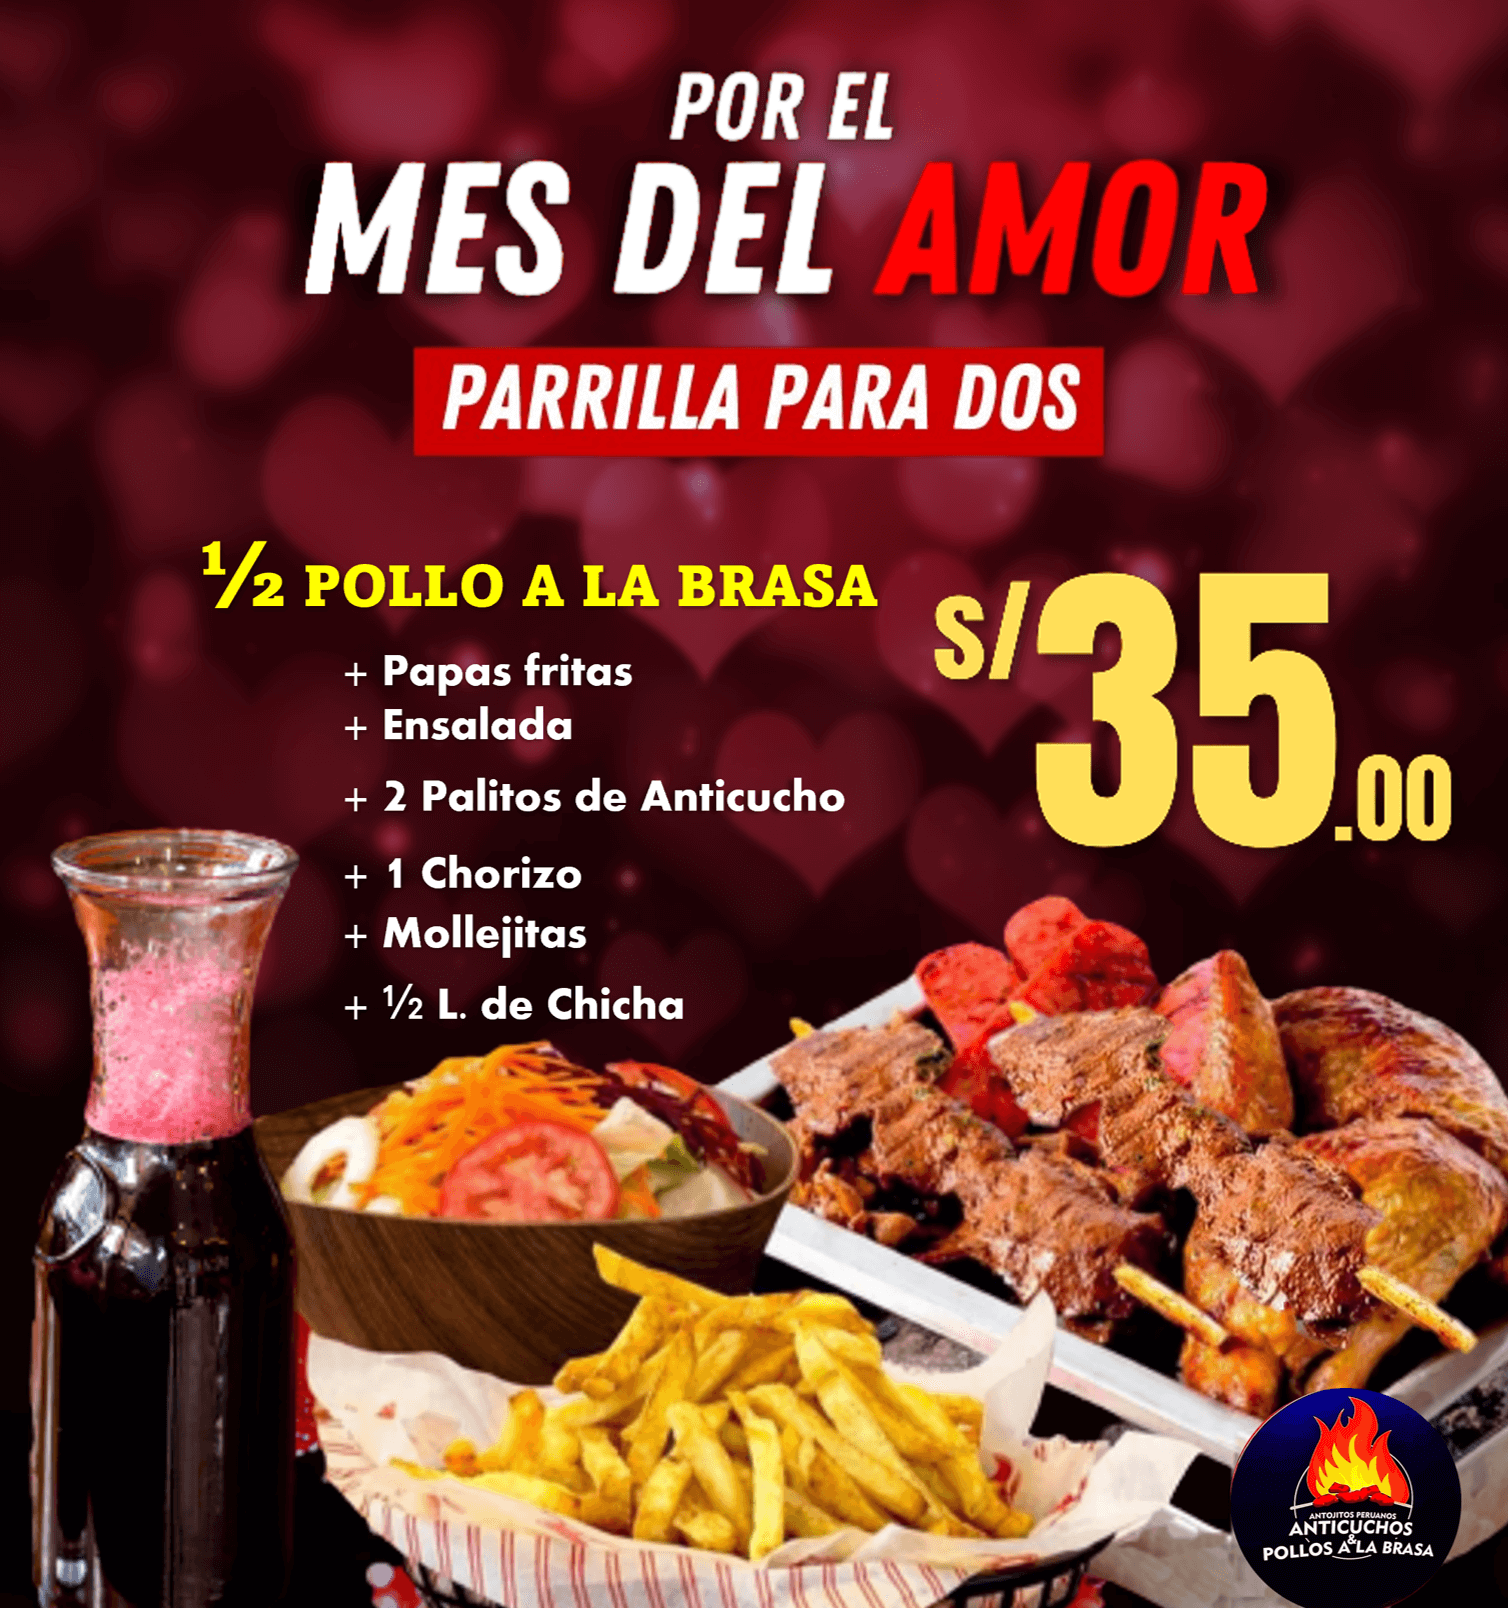
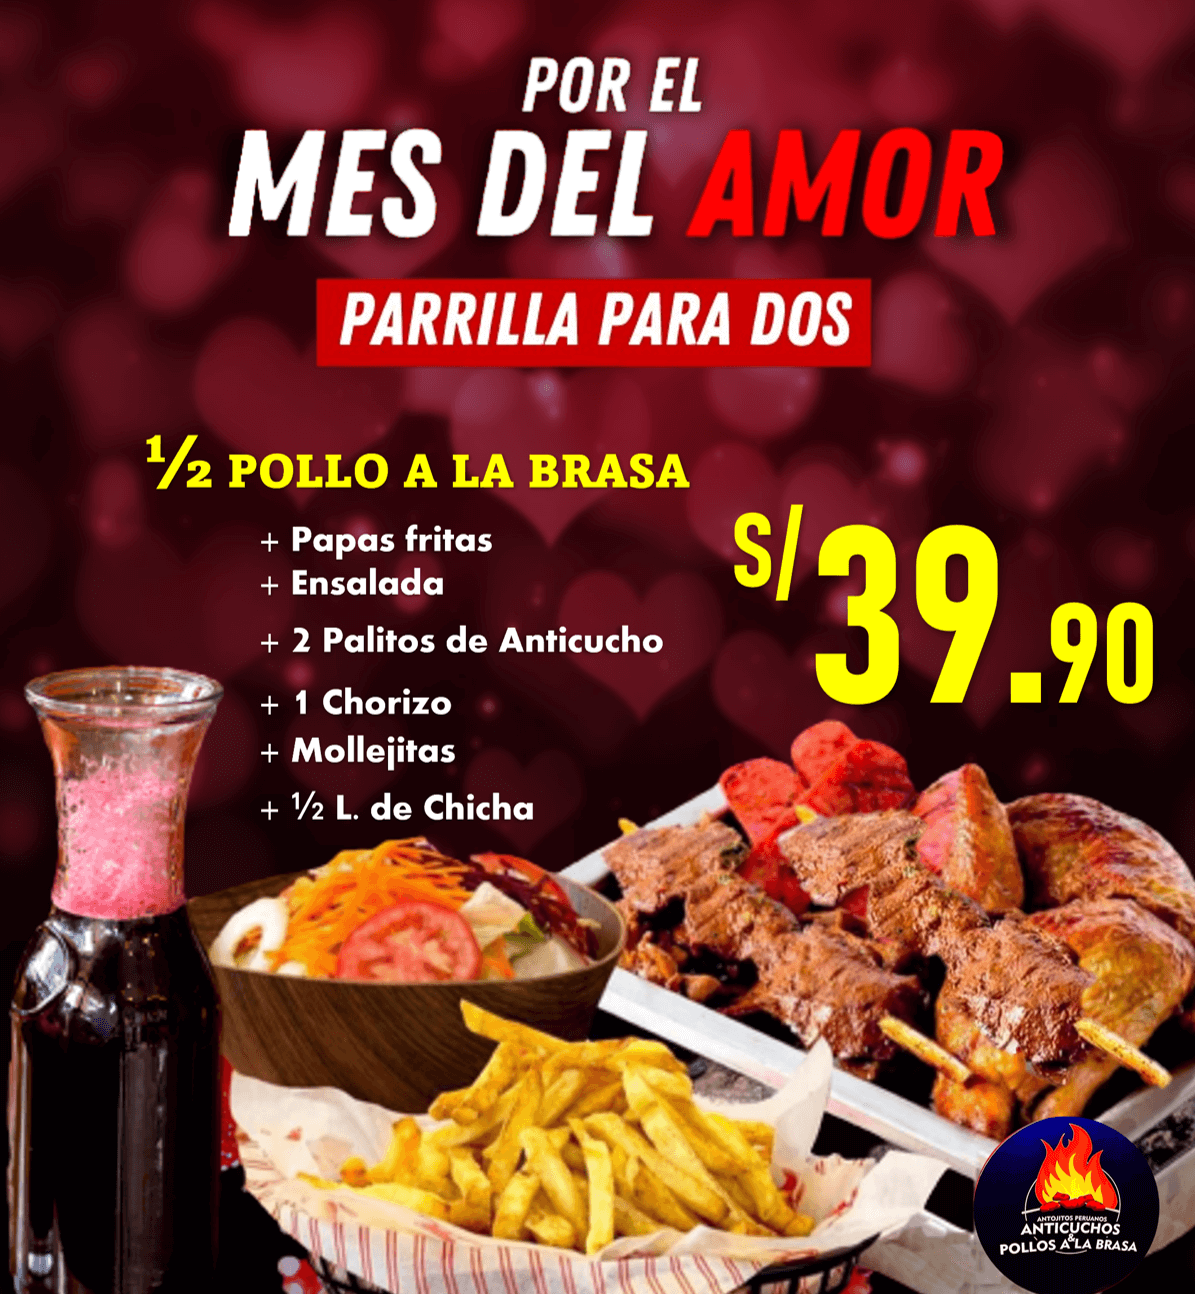
promo temporal, cambio de precio

diff --git a/index.html b/index.html
@@ -72,7 +72,7 @@
               <h3 class="titulo">Promo Dia del Amor</h3>
               <h4 class="descrip">1/2 Pollo a la Brasa + 2 Palitos de Anticucho + Chorizo + Mollejitas<h4/>
               <h5 class="descripcion">+ Papas + Ensalada + 1/2 L. Chicha<h5/>
-              <p class="hoy">S/. 35.00</p>
+              <p class="hoy">S/. 39.90</p>
             </div>
           </div>
         </div>
